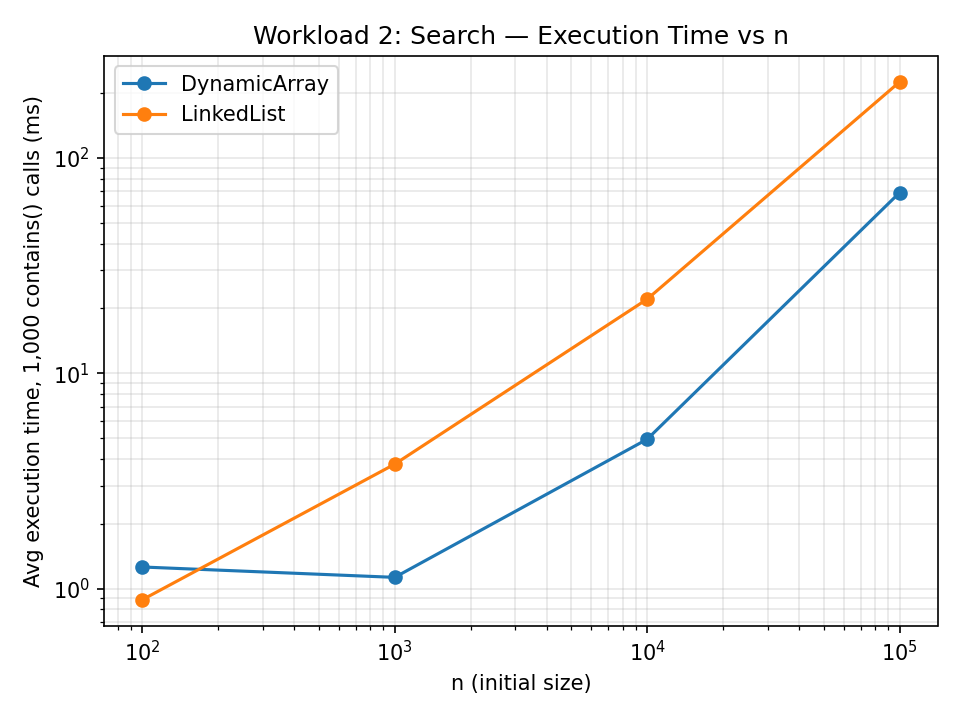
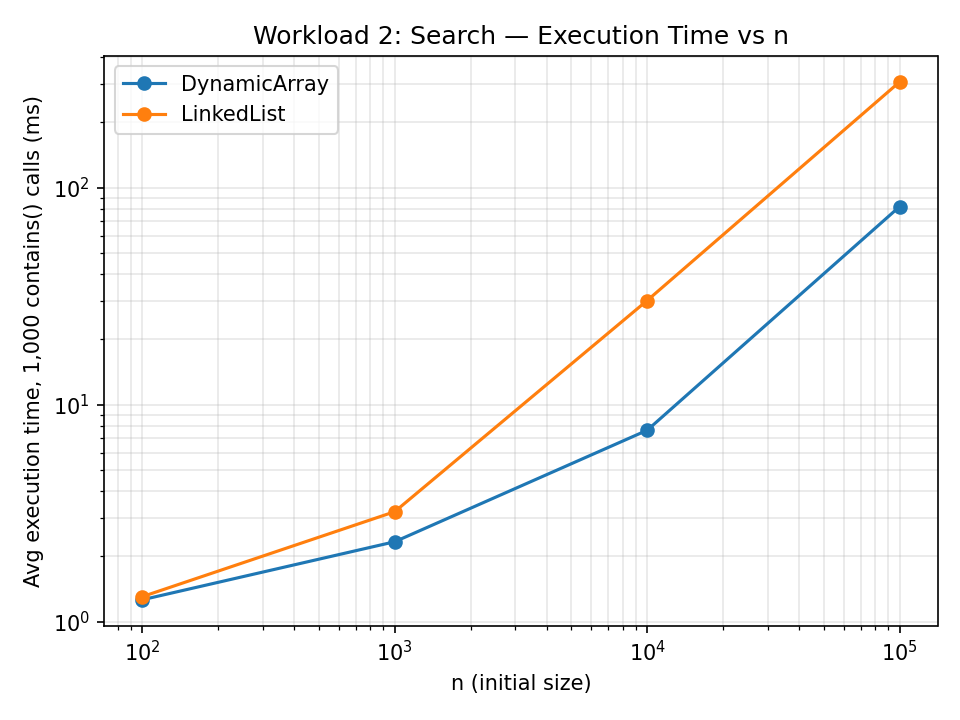
Finalize benchmark results.consistent single run across all workloads

diff --git a/README.md b/README.md
@@ -258,38 +258,38 @@ python3 plot_results.py   # generates results/plots/*.png from results/tables/*.
 
 | Structure | n | Avg time (ns) | Accesses | Theoretical |
 |---|---|---|---|---|
-| DynamicArray | 100 | 473,840 | 10,000 | Θ(1) per call |
-| LinkedList | 100 | 914,500 | 10,000 | Θ(n) per call |
-| DynamicArray | 1,000 | 47,240 | 10,000 | Θ(1) |
-| LinkedList | 1,000 | 2,838,560 | 10,000 | Θ(n) |
-| DynamicArray | 10,000 | 66,660 | 10,000 | Θ(1) |
-| LinkedList | 10,000 | 30,399,720 | 10,000 | Θ(n) |
-| DynamicArray | 100,000 | 46,540 | 10,000 | Θ(1) |
-| LinkedList | 100,000 | 336,025,460 | 10,000 | Θ(n) |
+| DynamicArray | 100 | 1,036,680 | 10,000 | Θ(1) per call |
+| LinkedList | 100 | 1,478,700 | 10,000 | Θ(n) per call |
+| DynamicArray | 1,000 | 112,500 | 10,000 | Θ(1) |
+| LinkedList | 1,000 | 4,120,280 | 10,000 | Θ(n) |
+| DynamicArray | 10,000 | 109,640 | 10,000 | Θ(1) |
+| LinkedList | 10,000 | 46,279,880 | 10,000 | Θ(n) |
+| DynamicArray | 100,000 | 87,880 | 10,000 | Θ(1) |
+| LinkedList | 100,000 | 509,652,740 | 10,000 | Θ(n) |
 
 ![Workload 1](results/plots/workload1_time_vs_n.png)
 
 **Analysis.** The Linked List's time grows essentially linearly with n on the log-log plot — from
-n = 1,000 to n = 100,000 (a 100× growth in n) its time grows from ~2.84 ms to ~336 ms, i.e.
-~118×, matching Θ(n) closely. The Dynamic Array's time drops from n = 100 to n = 1,000 and then
-stays essentially flat (47,240 → 66,660 → 46,540 ns) — this is a JIT warm-up artifact: n = 100
-runs first, before the JVM has compiled `get()` to native code, so it is measured slower than the
-later, "hot" runs, not because Θ(1) predicts growth. Once warmed up, the time is flat regardless
-of n, exactly as Θ(1) predicts. Overall, results strongly agree with theory: the Dynamic Array is
-the clear winner for random access, by 3–4 orders of magnitude at large n.
+n = 1,000 to n = 100,000 (a 100× growth in n) its time grows from ~4.12 ms to ~509.65 ms, i.e.
+~124×, matching Θ(n) closely. The Dynamic Array's time drops sharply from n = 100 to n = 1,000
+and then stays essentially flat (112,500 → 109,640 → 87,880 ns) — this is a JIT warm-up artifact:
+n = 100 runs first, before the JVM has compiled `get()` to native code, so it is measured much
+slower than the later, "hot" runs, not because Θ(1) predicts growth. Once warmed up, the time is
+flat regardless of n, exactly as Θ(1) predicts. Overall, results strongly agree with theory: the
+Dynamic Array is the clear winner for random access, by 3–4 orders of magnitude at large n.
 
 ### Workload 2 — Search (`contains(value)`, 1,000 calls)
 
 | Structure | n | Avg time (ns) | Comparisons | Theoretical |
 |---|---|---|---|---|
-| DynamicArray | 100 | 1,259,040 | 100,000 | Θ(n) |
-| LinkedList | 100 | 886,660 | 100,000 | Θ(n) |
-| DynamicArray | 1,000 | 1,126,860 | 1,000,000 | Θ(n) |
-| LinkedList | 1,000 | 3,779,520 | 1,000,000 | Θ(n) |
-| DynamicArray | 10,000 | 4,934,660 | 10,000,000 | Θ(n) |
-| LinkedList | 10,000 | 22,064,380 | 10,000,000 | Θ(n) |
-| DynamicArray | 100,000 | 68,942,540 | 100,000,000 | Θ(n) |
-| LinkedList | 100,000 | 225,137,840 | 100,000,000 | Θ(n) |
+| DynamicArray | 100 | 1,261,380 | 100,000 | Θ(n) |
+| LinkedList | 100 | 1,303,820 | 100,000 | Θ(n) |
+| DynamicArray | 1,000 | 2,334,680 | 1,000,000 | Θ(n) |
+| LinkedList | 1,000 | 3,211,800 | 1,000,000 | Θ(n) |
+| DynamicArray | 10,000 | 7,619,060 | 10,000,000 | Θ(n) |
+| LinkedList | 10,000 | 30,171,940 | 10,000,000 | Θ(n) |
+| DynamicArray | 100,000 | 81,758,280 | 100,000,000 | Θ(n) |
+| LinkedList | 100,000 | 306,818,700 | 100,000,000 | Θ(n) |
 
 ![Workload 2 time](results/plots/workload2_time_vs_n.png)
 ![Workload 2 comparisons](results/plots/workload2_comparisons_vs_n.png)
@@ -297,10 +297,10 @@ the clear winner for random access, by 3–4 orders of magnitude at large n.
 **Analysis.** Comparison counts are **identical** between the two structures at every n (both
 scan linearly through every element), confirming both have the same Θ(n) comparison complexity —
 this is a case of *same Big-O, different constant factor*. Execution time diverges as n grows: at
-n = 100 the Dynamic Array even measures slightly slower (1,259,040 ns vs. 886,660 ns) — again a
-JIT warm-up artifact, since n = 100 is the first, not-yet-hot run — but by n = 100,000 the Dynamic
-Array is about 3.3× faster (68.9 ms vs. 225.1 ms), because contiguous array scanning has excellent
-CPU cache locality (sequential memory access, prefetch-friendly), while list traversal follows
+n = 100 the two structures are nearly tied (1,261,380 ns vs. 1,303,820 ns — both still affected by
+JIT warm-up, since n = 100 is the first, not-yet-hot run), but by n = 100,000 the Dynamic Array is
+about 3.75× faster (81.8 ms vs. 306.8 ms), because contiguous array scanning has excellent CPU
+cache locality (sequential memory access, prefetch-friendly), while list traversal follows
 heap-allocated pointers scattered in memory, causing many more cache misses per element visited.
 Increasing n increases both time and comparisons roughly proportionally for both structures,
 matching the linear prediction — comparisons scale exactly 10× for each 10× growth in n, as
@@ -310,14 +310,14 @@ expected for Θ(n).
 
 | Structure | n | Position | Operation | Avg time (ns) | Movements |
 |---|---|---|---|---|---|
-| DynamicArray | 100,000 | begin | insert | 154,905,300 | 100,499,500 |
-| LinkedList | 100,000 | begin | insert | 51,820 | 0 |
-| DynamicArray | 100,000 | begin | remove | 105,055,340 | 99,500,500 |
-| LinkedList | 100,000 | begin | remove | 20,360 | 0 |
-| DynamicArray | 100,000 | middle | insert | 77,087,520 | 50,499,500 |
-| LinkedList | 100,000 | middle | insert | 100,540,880 | 50,000,000 |
-| DynamicArray | 100,000 | middle | remove | 47,456,100 | 49,500,500 |
-| LinkedList | 100,000 | middle | remove | 108,258,520 | 50,000,000 |
+| DynamicArray | 100,000 | begin | insert | 201,176,920 | 100,499,500 |
+| LinkedList | 100,000 | begin | insert | 54,300 | 0 |
+| DynamicArray | 100,000 | begin | remove | 109,922,980 | 99,500,500 |
+| LinkedList | 100,000 | begin | remove | 26,700 | 0 |
+| DynamicArray | 100,000 | middle | insert | 80,922,800 | 50,499,500 |
+| LinkedList | 100,000 | middle | insert | 107,710,040 | 50,000,000 |
+| DynamicArray | 100,000 | middle | remove | 50,566,700 | 49,500,500 |
+| LinkedList | 100,000 | middle | remove | 105,329,760 | 50,000,000 |
 
 *(these numbers reflect the corrected version of the benchmark, where the m random values to
 insert are pre-generated into an array before the timer starts, rather than being generated by
@@ -331,8 +331,8 @@ insert are pre-generated into an array before the timer starts, rather than bein
 **Analysis.**
 - **Insertion/removal at the beginning:** the Dynamic Array pays O(n) shifting cost on *every*
   one of the 1,000 operations (worst case for the array), while the Linked List pays O(1) per
-  operation (head pointer, no traversal needed) — this is where the list wins by roughly 3
-  orders of magnitude (~3,000×), matching theory exactly.
+  operation (head pointer, no traversal needed) — this is where the list wins by roughly 3.5
+  orders of magnitude (~3,700×), matching theory exactly.
 - **Insertion/removal in the middle:** the array's cost drops (only ~n/2 elements shift instead
   of n), but the list's cost *rises* dramatically, because 1,000 middle-position operations force
   1,000 separate O(n/2) traversals from the nearer end — the list has no way to "remember" the
@@ -348,22 +348,22 @@ insert are pre-generated into an array before the timer starts, rather than bein
 
 | n | Avg insert time (ns) | Avg extract time (ns) | Comparisons | Order OK |
 |---|---|---|---|---|
-| 100 | 19,800 | 52,500 | 1,069 | true |
-| 1,000 | 85,480 | 185,920 | 17,322 | true |
-| 10,000 | 627,480 | 1,425,360 | 239,284 | true |
-| 100,000 | 1,828,360 | 10,393,440 | 3,059,283 | true |
+| 100 | 52,560 | 108,020 | 1,069 | true |
+| 1,000 | 244,540 | 523,240 | 17,322 | true |
+| 10,000 | 1,164,460 | 2,677,100 | 239,284 | true |
+| 100,000 | 3,415,220 | 20,099,100 | 3,059,283 | true |
 
 ![Workload 4 time](results/plots/workload4_time_vs_n.png)
 ![Workload 4 comparisons](results/plots/workload4_comparisons_vs_n.png)
 
 **Analysis.**
 - `insert` is Θ(log n) per call; over n calls, total insert time is Θ(n log n) — consistent with
-  the roughly ×21 growth in total insert time for a ×1,000 growth in n from 1,000 to 100,000
+  the roughly ×65 growth in total insert time for a ×1,000 growth in n from 100 to 100,000
   (log n grows slowly, so the increase is driven mostly by the extra n itself, not by each call
   getting much slower).
 - `extractMin` is likewise Θ(log n) per call, Θ(n log n) total, but consistently costs more
-  wall-clock time than the matching insert phase at the same n (e.g. 10.39 ms vs. 1.83 ms at
-  n = 100,000, roughly 5.7×), because sift-down compares against *two* children per level versus
+  wall-clock time than the matching insert phase at the same n (e.g. 20.10 ms vs. 3.42 ms at
+  n = 100,000, roughly 5.9×), because sift-down compares against *two* children per level versus
   sift-up's *one* parent comparison per level (see §2.4).
 - `peekMin` (not separately benchmarked as a workload since it is trivially Θ(1) and dominates
   nothing) is O(1) by construction — a single array read.
